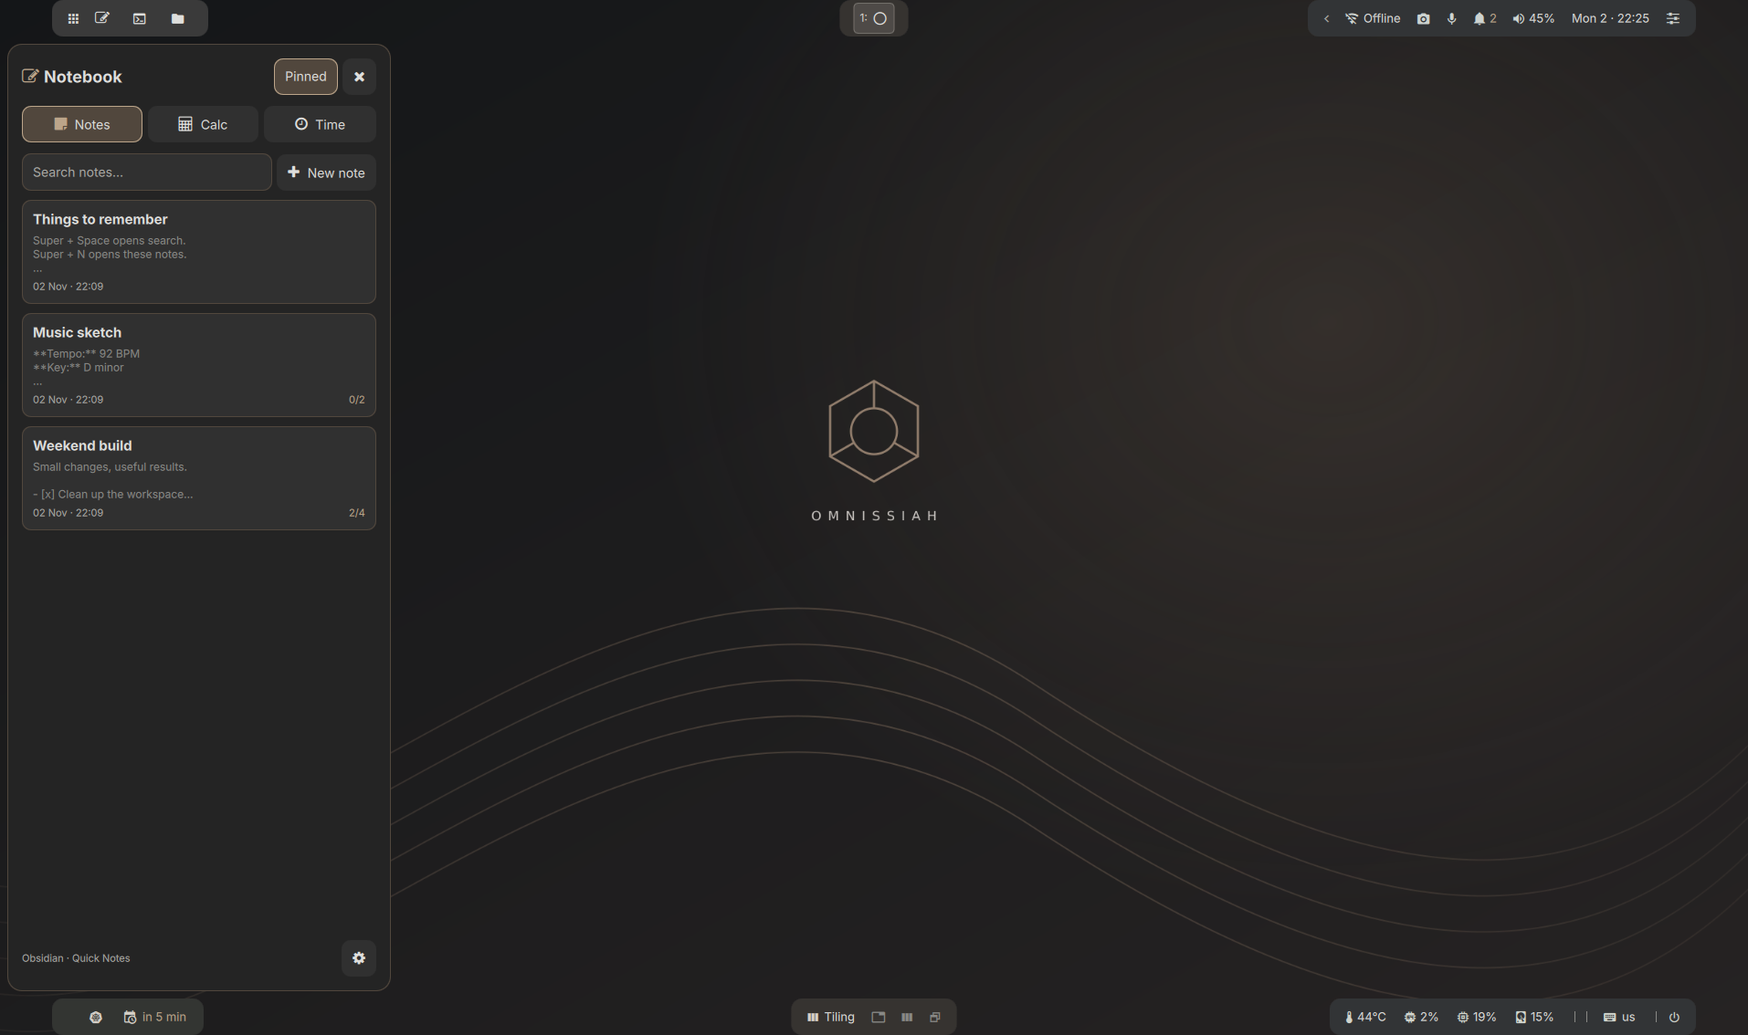
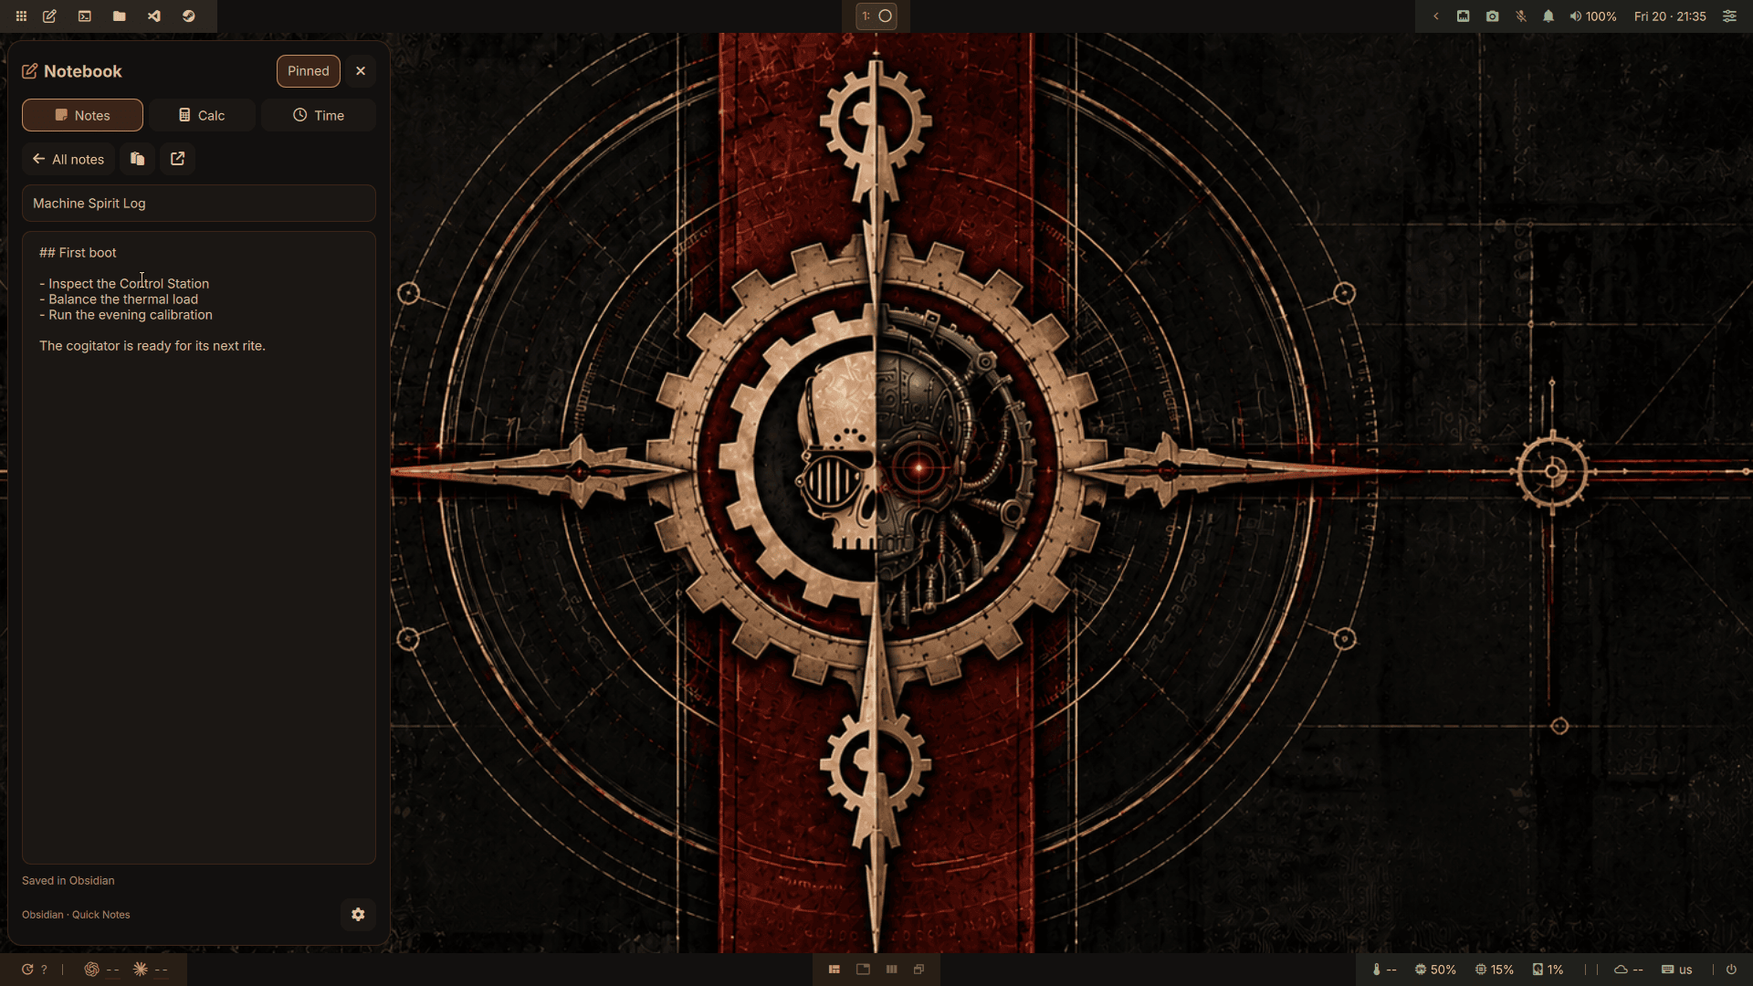
OniNix: README, screenshots and NOTICE
README in my voice: the machine spirit, voice, why not Omarchy, install from
the ISO, updates and rollback, keys, customization and the repo map. Demo
screenshots from the VM replace the old native-distro ones (pngquant, 6.9 MB).
NOTICE drops the old package table, credits Omarchy's palettes and adds the
Games Workshop fan-project notice.

diff --git a/README.md b/README.md
@@ -1,288 +1,132 @@
-<p align="center"><img src="quickshell/assets/mark.svg" width="88" alt="Omnissiah Desktop"></p>
+<p align="center"><img src="desktop/quickshell/assets/mechanicus.png" width="120" alt="OniNix"></p>
 
-# Omnissiah Desktop
+<h1 align="center">OniNix</h1>
+<p align="center"><b>OmnissiaNix.</b> NixOS with my Hyprland desktop, and a machine spirit you can talk to.</p>
 
-My Hyprland desktop for getting shit done. Two panels, a Control Center, shared app themes and useful keyboard shortcuts. Runs on **Arch Linux, CachyOS, Ubuntu and Fedora**, using native packages.
+![Control Station](docs/screenshots/control-station.png)
 
-![Control Center](docs/screenshots/control-center.png)
+This is the desktop I work in every day, packed as a distribution. Two panels, Control Station, notes, a voice you can dictate with, and a machine spirit that changes the system when you ask it. Under it sits NixOS, so nothing you or the spirit do can leave the machine broken. The previous system is always one click away.
+
+## Why not just Omarchy
+
+Omarchy is great. I stole ideas from it and I'm not ashamed. But it is Arch plus scripts, and that has a price: when an update or a clever script goes sideways, you fix it by hand.
+
+| | Omarchy | OniNix |
+|---|---|---|
+| Base | Arch + install scripts | NixOS, the whole system is one config |
+| Bad update | Fix it yourself | Pick the previous system in the boot menu |
+| Change the system | Edit configs or run scripts | Ask the machine spirit, see the diff, apply or undo |
+| Settings | Config files | Control Station, search included |
+| Voice | No | Hold Right Alt to dictate anywhere, Whisper picked for your hardware |
+| Looks | Many themes | Many palettes, live switching, Mechanicus everywhere |
+
+## The machine spirit
+
+Press **Super+A**, or hold **Right Ctrl** and say it. Something like "install Blender", "turn on the gaming set" or "add the German layout".
+
+1. Claude Code or Codex (whichever you signed in to) edits a copy of your machine config. Not the real one.
+2. OniNix builds the new system from that copy. Nothing changes yet.
+3. You see what changes: the config diff and the package list.
+4. **Apply** switches to it. Don't like it? `oninix-spirit undo` and you are back.
+
+NixOS makes letting an AI touch your system safe. The AI makes NixOS usable for people who don't want to learn Nix. That's the whole idea.
+
+## Voice
+
+Hold **Right Alt** in any text field, speak, let go. The text lands where your cursor is. It runs locally with Whisper, nothing leaves the machine.
+
+On the first login `oninix-voice-profile` checks your hardware and benchmarks Whisper: NVIDIA, AMD and Intel GPUs through Vulkan, or the CPU. It takes the biggest model that still answers in about three seconds, from tiny to large-v3-turbo. In a virtual machine without GPU, or on a potato, voice stays off and tells you why when you hold the key. `oninix-voice-profile --force` turns it on anyway. Small models are worse with languages other than English. Just so you know.
 
 ## What is inside
 
-- Two panels with workspace numbers, app icons, pinned apps and a system tray.
-- Islands that join into a full panel when windows fill the workspace.
-- Panel settings for size, corners, colors, groups and transparency.
-- A Control Center with search, quick actions, sound, displays, devices and work modes.
-- Hover cards for music, calendar, notifications, sound and system usage.
-- An app launcher, launchpad, clipboard history and an Alt+Tab switcher.
-- A notification center with history, DND, clear buttons and rules for noisy apps.
-- A side notebook with Markdown notes, a calculator, timers and reminders. You can point it at an Obsidian vault.
-- Calendar support for Google, Microsoft 365 and private iCalendar feeds.
-- Six color themes, day/night switching, wallpapers and a lock screen.
-- A shortcut guide that reads the current Hyprland bindings.
+- Two panels, islands that join when windows fill the screen, drag icons between groups.
+- Control Station: connections, sound, displays, devices, power, themes, panels, apps, work modes, calendars, session.
+- Launcher, launchpad, clipboard history with previews, Alt+Tab across workspaces.
+- Notebook: Markdown notes (point it at an Obsidian vault), calculator, timers, dictation and meeting transcripts.
+- Notifications with history, do not disturb and rules for noisy apps.
+- Calendars: Google, Microsoft 365, iCalendar feeds.
+- Palettes with day and night switching, wallpapers, lock screen, all in the same colors.
+- Game mode: closes the heavy apps, gives the game the machine, puts everything back after.
+- GRUB, boot splash and login screen in Mechanicus style. Of course.
 
-| Panel settings | Quick notes |
+| Panels | Notebook |
 |---|---|
-| ![Panel settings](docs/screenshots/panels.png) | ![Notebook](docs/screenshots/notebook.png) |
-| ![Light theme](docs/screenshots/light.png) | ![Notifications](docs/screenshots/notifications.png) |
+| ![Panels](docs/screenshots/panels.png) | ![Notebook](docs/screenshots/notebook.png) |
+| ![Light palette](docs/screenshots/palette-light.png) | ![Launchpad](docs/screenshots/launchpad.png) |
 
-The screenshots use demo data. The wallpaper and project mark are included as SVG files.
+| Boot | Login |
+|---|---|
+| ![GRUB](docs/screenshots/grub.png) | ![Login](docs/screenshots/greeter.png) |
+
+The screenshots use a demo user and demo data.
 
 ## Install
 
-I am targeting **Arch Linux, CachyOS, Ubuntu and Fedora**. Other distros can fuck off for now. Four are enough to keep me busy.
-
-Clone the repo:
+Build the ISO:
 
 ```sh
-git clone git@github.com:ilyakubryakov/omnissiah-desktop.git
-cd omnissiah-desktop
+nix build github:ilyakubryakov/omnissiah-desktop/oninix#iso
 ```
 
-Then run:
+Write `result/iso/*.iso` to a USB stick (`dd`, Ventoy, whatever you like) and boot it in UEFI mode. You land in a live OniNix desktop. Look around, then press **Install OniNix**.
 
-```sh
-./install.sh
-```
+The installer asks for the disk, encryption, your name, login, password, computer name, time zone and keyboard layouts. Graphics and laptop are detected. Then you tick what you want:
 
-Fedora needs community packages. Read [the package sources](#install-and-restore) first, then use:
+- **Gaming:** Steam, Proton, Game mode, launchers
+- **Coding:** editors, toolchains, developer tools
+- **Music:** low-latency audio and a DAW
+- **AI:** Claude Code and Codex, needed for the machine spirit
 
-```sh
-./install.sh --fedora-copr
-```
+It erases the disk you picked. It asks twice. Read the summary.
 
-After installation, log out and select **Hyprland (uwsm)**. You can also run `uwsm start Hyprland` from a local TTY.
+Your machine config lives in `/etc/nixos`: `settings.nix` is yours (and the spirit's), the rest is generated.
 
-| Distribution | Package source |
-|---|---|
-| Arch Linux | Official packages + a small `python-msal` PKGBUILD |
-| CachyOS | The same native package path as Arch |
-| Ubuntu 26.10+ | Universe + a local `.deb` with the full icon font |
-| Fedora 44+ | Two explicit COPRs + local RPMs for missing dependencies |
+## Updates and going back
 
-Older Ubuntu releases do not have the required runtime in their official repositories. I have tested the UI on Ubuntu and the packages and helpers on Arch and Fedora. CachyOS still needs its own test run. The [test notes](#tests-and-current-limits) have the details.
+The panel checks for an OniNix update once a day and tells you when it is time. **Update** opens a terminal, pulls the new OniNix and rebuilds. Every update and every spirit change is a new system generation. If something is off, reboot and pick the previous one in GRUB.
 
-## A few shortcuts
+## Keys worth knowing
 
 | Keys | Action |
 |---|---|
+| Super + A | Machine spirit |
+| Hold Right Ctrl | Talk to the machine spirit |
+| Hold Right Alt | Dictate into the focused field |
 | Super + Space | Search apps, projects and files |
 | Super + D | Launchpad |
-| Super + Ctrl + C | Control Center |
-| Super + N | Notes, calculator and timers |
+| Super + , | Control Station |
+| Super + Ctrl + C | Quick toggles and sliders |
+| Super + N | Notebook |
 | Super + Shift + V | Clipboard history |
-| Super + Shift + H | Shortcut guide |
-| Alt + Tab | Switch windows across workspaces |
+| Super + / | Shortcuts you use every day |
+| Super + Shift + H | Every shortcut |
+| Alt + Tab | Switch windows |
 | Super + Return | Terminal |
 | Super + L | Lock |
 
-![Shortcut guide](docs/screenshots/shortcuts.png)
+![Shortcuts](docs/screenshots/cheatsheet.png)
 
-## What the installer changes
+## Make it yours
 
-The project has no accounts, passwords, VPN profiles, SSH keys or private endpoints. Weather, Prometheus, Kubernetes and AI usage widgets are off until you configure them.
+- Drop a `~/.config/oninix/hypr/user.lua` for your own Hyprland bits, or a module with the same name as one of ours to replace it.
+- Palettes, wallpapers, panels and icons are in Control Station.
+- System stuff goes to `/etc/nixos/settings.nix`, by hand or through the spirit.
 
-Your settings live outside the installed release. The installer backs up the files it replaces. Uninstall restores those files and keeps later changes in a separate folder. It does not remove your notes or accounts.
+## Repository
 
-Your distribution still manages drivers, networking, the login screen and boot. I leave those alone.
-
-- [Install, update and restore](#install-and-restore)
-- [Local settings and integrations](#local-settings)
-- [Project structure](#project-structure)
-- [Tests and current limits](#tests-and-current-limits)
-- [Licenses and credits](NOTICE)
-
-## Install and restore
-
-<details>
-<summary>Requirements, package sources, updates and recovery</summary>
-
-I install this on top of an existing Linux desktop. It needs systemd/logind, NetworkManager and a working graphics driver. The supported distro IDs are `arch`, `cachyos`, `ubuntu` and `fedora`. So far I have used x86_64 machines.
-
-The runtime needs Python 3.11+, Hyprland 0.55+ and Quickshell 0.3+. Run the installer as your normal user. It uses sudo only for native packages.
-
-### Before installation
-
-```sh
-./install.sh plan --distro ubuntu
-```
-
-This shows the package steps without running them. During installation, apt, pacman or dnf shows the real package changes and asks for confirmation where needed.
-
-The installer backs up files it replaces: Hyprland, Quickshell, launcher settings and the application settings changed by the theme. It also saves the desktop font, icon and color settings.
-
-After installation, log out and select **Hyprland (uwsm)**. Without a login manager, use `uwsm start Hyprland` from a local TTY. An ordinary SSH session is not enough to start a desktop.
-
-UWSM starts `omnissiah.target`. This runs the panels, notifications, clipboard, wallpaper, idle/lock, calendar and theme services. The host keeps its own audio, network and login services.
-
-### Where the packages come from
-
-**Arch and CachyOS:** a full `pacman -Syu`, so Qt and Hyprland do not get a partial upgrade. `python-msal` is built with makepkg from the recipe in this repo, then installed through pacman.
-
-**Ubuntu 26.10+:** apt packages from Universe. Ubuntu's `fonts-nerd-symbols` is missing the icon range used by the panels. The installer builds a small `.deb` with the full upstream font. It replaces that reduced font package. Font licenses stay in `/usr/share/doc/omnissiah-symbols-fonts`.
-
-**Fedora 44+:** the official packages are not enough for this version. `--fedora-copr` enables `giperborey/Hyprland` and `errornointernet/quickshell`. These are community repositories, not official Fedora support. Missing idle, calendar and font packages are built as local RPMs. The calendar builds include icalendar because the Fedora package's Python version metadata does not meet the recurrence library's requirement.
-
-All extra source URLs and checksums are in `packaging/`. Builds run as your normal user. No global pip environment or Nix installation is involved. Local packages and build tools remain visible to pacman, apt or dnf.
-
-If you already installed the runtime, use `./install.sh --no-packages`. It still checks the required commands and versions.
-
-### Update
-
-Pull the changes, have a look, then run the installer again. Installed versions live in `~/.local/share/omnissiah/releases/`. A `current` link selects one version. Settings live outside it.
-
-If you replaced a managed link with your own file or folder, the update stops and tells you which path needs attention. It does not overwrite that change.
-
-### Remove or recover
-
-Log out first, then run:
-
-```sh
-./install.sh uninstall
-```
-
-This restores the configuration saved before the first installation. Later file changes go to `~/.local/state/omnissiah/removed/`. Notes, accounts, wallpapers, saved preferences and native packages stay on the machine. The original backup path is recorded in `~/.local/state/omnissiah/receipt.json` while installed.
-
-If the desktop fails to start, use a TTY and run the same uninstall command from your checkout. Then choose your previous session.
-
-This restores configuration, not old package versions. Use distro snapshots or your normal backup for an OS rollback.
-
-### Limits
-
-I leave GPU drivers, PAM, fingerprint setup, autologin, the bootloader, login screen and network manager to the distro. I want a better desktop, not another bloody OS installer.
-
-Use standard XDG paths under your home. Custom locations are not supported; the installer stops if you use them.
-
-</details>
-
-## Local settings
-
-<details>
-<summary>Themes, calendars, notes and other integrations</summary>
-
-I keep most settings in Control Center: colors, wallpapers, panel size, corners, groups, accents, pinned apps, devices and work modes. Drag pinned apps to reorder them; app icons are made monochrome by the shell.
-
-Settings stay under `~/.local/state/theme`, `~/.local/state/station` and `~/.config/theme-schedule.conf`. Theme output is generated from `themes/*/colors.toml`. GTK and Qt6 use the same palette. Electron apps need their system theme setting. Legacy Qt5 apps may need `QT_QPA_PLATFORMTHEME=qt5ct` when launched; the matching qt5ct colors are already written. Applications that cache their own theme may need restarting.
-
-Put extra Hyprland settings in `~/.config/omnissiah/local.lua`. Optional display roles go in `~/.config/omnissiah/monitors.conf`; no hardware role is required. Ordinary outputs use preferred mode/scale 1 until you choose settings in Displays.
-
-### Optional integrations
-
-`~/.config/omnissiah/integrations.json` starts as `{}`. Example fields (add only those you want):
-
-```json
-{
-  "weather": {"latitude": 51.5074, "longitude": -0.1278},
-  "holidays": ["lt", "ie"],
-  "clocks": {"UTC": "Etc/UTC", "London": "Europe/London"},
-  "ai": ["codex", "claude"],
-  "clusters": [],
-  "prometheus": "",
-  "telemetry": ""
-}
-```
-
-London is just an example. Weather requests go to Open-Meteo after you supply coordinates. Solar theme scheduling has separate coordinates in `theme-schedule.conf`; set them before selecting Sun mode. Fixed-time and manual scheduling do not need a location.
-
-AI usage reads your locally authorized clients only after opt-in. It does not install clients or authenticate them. Kubernetes targets contain `id`, `label`, `kubeconfig` (filename under `~/.kube/`, or absolute path) and `context`. The widget only reads status and uses timeouts. A Prometheus URL enables alert queries; optional `telemetry` is an HTTPS endpoint returning your own compatible resource summary. Empty fields make no request.
-
-Add calendar accounts and OAuth app details through Calendars. Google and Microsoft tokens stay in your private account configuration. A work account may need your company's approval. This panel reads meetings. For editing them, use your mail or calendar app.
-
-I use the notebook with Obsidian. Its default path is `~/Documents/Notes`. Open that folder as a vault in Obsidian once, or choose an existing vault in Notebook settings. It needs the vault's `.obsidian` folder before saving notes. Files stay as normal Markdown; your sync tool handles other devices. Obsidian itself is not installed by this project.
-
-The icon chooser shows which families are installed. Papirus and Breeze are included; Tela, Colloid and Fluent become available when their native packages are installed. Missing themes are not downloaded behind your back.
-
-Screen recordings go to `~/Videos/Screencasts`. The recorder uses MP4 with H.264/AAC when those encoders are available, or WebM with VP9/Opus on Fedora's free FFmpeg build. Audio and microphone selection are in Capture settings.
-
-VPN profiles come from NetworkManager. Login auto-connect only runs for profiles you enabled in Control Center. The project does not add a VPN profile or enable one by default.
-
-</details>
-
-## Project structure
-
-<details>
-<summary>Where the files live and how the desktop starts</summary>
-
-The desktop is split between the Quickshell UI, Hyprland configuration and local helpers.
-
-| Path | What it does |
+| Path | What |
 |---|---|
-| `quickshell/` | Panels, Control Center, cards, launchpad, notes and guide |
-| `config/hypr/` | Hyprland layout, bindings, rules, idle and lock |
-| `dotfiles/.local/bin/` | Small desktop commands |
-| `dotfiles/.local/lib/` | Shared Python code |
-| `themes/` | Palettes, templates, wallpaper and icon settings |
-| `systemd/user/` | Services for the desktop session |
-| `installer.py` | Package checks, installation, update and restore |
-| `packaging/` | Native packages missing from distro repositories |
-| `assets/` | Project artwork |
-| `tests/` and `quickshell/tests/` | Installer and desktop tests |
+| `flake.nix` | The NixOS module, the ISO and the demo VM |
+| `nix/modules/` | System side: desktop, boot, voice, updates, the spirit |
+| `nix/installer/` | The installer |
+| `nix/template/` | The machine flake the installer writes |
+| `desktop/hypr/` | Hyprland, in Lua |
+| `desktop/quickshell/` | Panels, Control Station, Notebook |
+| `desktop/bin/`, `desktop/lib/` | The `oninix-*` commands |
+| `desktop/themes/` | Palettes and templates, rendered at build time |
 
-The UI calls local helpers with a fixed set of actions. Text from input fields is passed as data, rather than shell commands. Account data stays in the user's private state directory.
+`nix flake check` builds the demo system. `nix build .#nixosConfigurations.demo.config.system.build.vm` gives you a VM to poke at.
 
-`omnissiah.target` starts the desktop services inside a UWSM session. They stop with the graphical session. The host provides logind, networking, audio and graphics drivers.
+## Licenses
 
-Each installed version has a content-based directory name. A `current` link selects the version. User settings, notes and account data stay outside it. The installer records displaced files before replacing them.
-
-</details>
-
-## Tests and current limits
-
-<details>
-<summary>What I tested and what still needs work</summary>
-
-I tested this version on 3 November 2026. All Linux packages came from the native package managers and the recipes in this repo. The containers ran on an Intel laptop with a working Wayland session.
-
-### What I checked
-
-| System | Runtime versions | Result |
-|---|---|---|
-| Ubuntu 26.10 | Hyprland 0.56.2, Quickshell 0.3.0, UWSM 0.26.6 | Packages, doctor, tests and a separate graphical session |
-| Arch Linux | Hyprland 0.57.0, Quickshell 0.3.2, UWSM 0.27.1 | Packages, doctor and tests |
-| Fedora 44 | Hyprland 0.57.0, Quickshell 0.3.2, UWSM 0.27.0 | COPR/local RPM packages, doctor and tests |
-| CachyOS | Uses the Arch package path | Not tested on CachyOS yet |
-
-The Python tests passed on Ubuntu, Arch and Fedora: 9 installer/recording tests and 80 desktop tests on each. Five JavaScript test files also passed. I checked Python and shell syntax, and rendered all six palettes.
-
-The installer tests cover backup, repeated installation, changed managed files, broken symlinks, restore, unsupported systems and real theme output. They use temporary home directories. They do not replace a test of a full desktop login.
-
-Two lock-screen tests depend on the time of day. The final run used `TZ=Etc/GMT+10`, when both could run; all 80 desktop tests passed without skips.
-
-### Graphical check
-
-I started the Ubuntu desktop inside its own Hyprland window, with a separate user and D-Bus session. It had no access to my home directory or accounts. The README screenshots came from this session.
-
-I checked the panels, Control Center, panel editor, dark/light colors, notebook, notification center and shortcut guide. Hyprland reported no configuration errors, and the panel and guide loaded without QML errors. The complete icon font fixed the missing symbols from Ubuntu's smaller font package.
-
-Screen recording produced a real H.264/AAC MP4. Fedora's free FFmpeg build does not include H.264 encoding, so the recorder selects VP9/Opus WebM there. I checked those codecs with a short encode on Fedora; I have not tested Fedora screen capture in a graphical session yet.
-
-I also recorded desktop sound and the demo microphone together. The temporary audio mixer was removed after capture stopped.
-
-The demo scripts in `tests/` are for an isolated `/home/demo` account. They create fake notes, meetings and devices. Do not run them in your daily account.
-
-### Still to test
-
-- A clean install, login and logout through UWSM on each target distro. The container demo starts services directly because it does not run systemd as PID 1.
-- The full graphical session on Arch, Fedora and CachyOS.
-- Real NVIDIA/AMD hardware, several monitors, suspend, Bluetooth and fingerprint devices.
-- Google and Microsoft account setup on a new installation. No real account tokens were copied into the preview.
-- Updates across new Hyprland, Qt and Quickshell releases. The package versions above are a test record, not a permanent version lock.
-
-`Hyprland --verify-config` crashed in the Ubuntu container when the config queried live outputs. I checked the running compositor's configuration errors and the UI itself. The checker crash still needs looking at.
-
-</details>
-
-## Development
-
-```sh
-python3 -m unittest discover -s tests
-python3 -m unittest discover -s quickshell/tests -p 'test_*.py'
-TZ=Europe/Vilnius sh -c 'for test in quickshell/tests/*.test.cjs; do node "$test"; done'
-./install.sh plan --distro ubuntu
-./install.sh doctor
-```
-
-The calendar tests need the Python packages listed in `packages.json`.
-
-Use clear names and small functions. Keep comments and docstrings out of code; explanations go here. Executable directives and license notices stay where they belong.
-
-If something breaks, send the logs. "It's fucked" is a fair review, but a poor bug report. Sláinte.
+MIT for my code. Palettes, fonts and the rest keep their own licenses, see [NOTICE](NOTICE).
